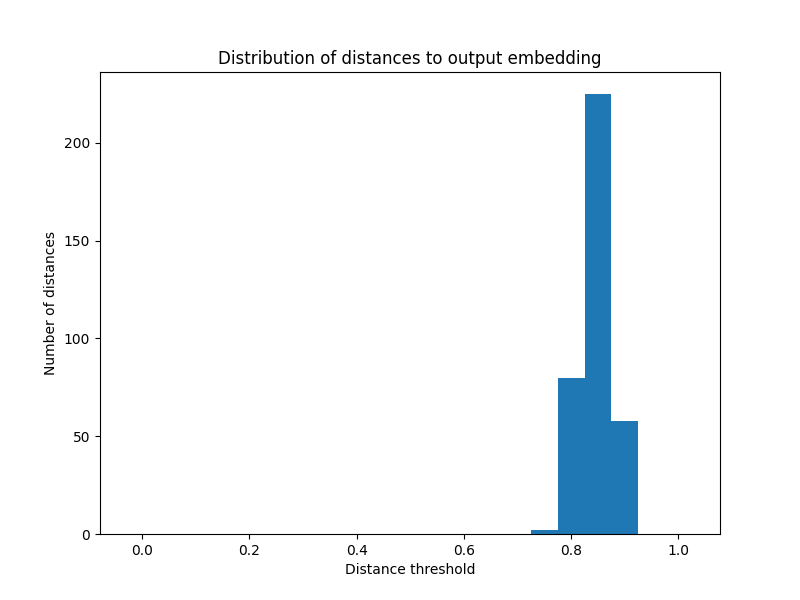
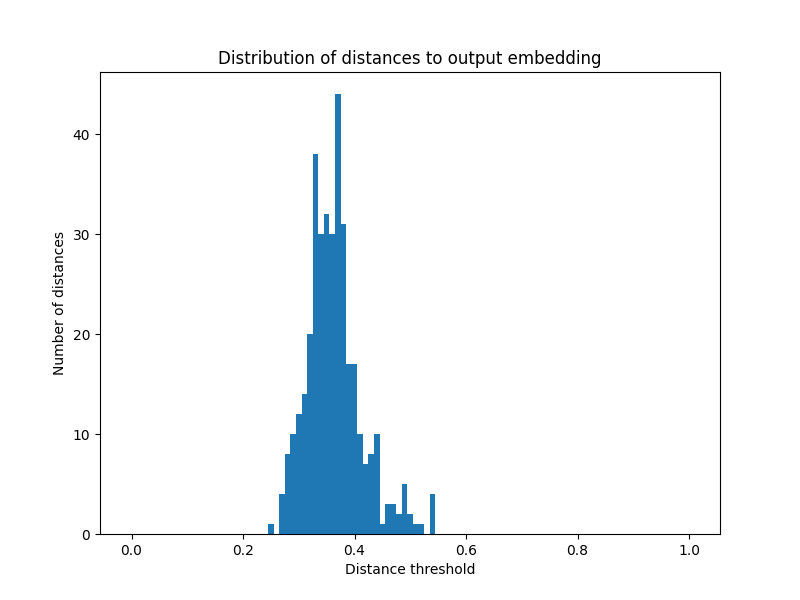
Origin and centroid distance plots

diff --git a/plotting.py b/plotting.py
@@ -184,6 +184,84 @@ def plot_distance_distribution(dists, name, t_step=0.05):
     plt.savefig(f"plots/distance_distribution_{name}.png")
 
 
+def plot_origin_distance(data, labels = "ONeill", embedding = "clamp", method="euclidean", name=None, t_step=0.2):
+
+    if isinstance(labels, str):
+        labels = [labels]
+    embeddings = extract_embeddings(data, labels, embedding)
+
+    if name is None:
+        label_str = "-".join(labels)
+        name = f"{label_str}_{embedding}_{method}"
+
+    embed_len = len(embeddings[0])
+    origin = [0]*embed_len
+
+    dists = compute_dist(origin, embeddings, method=method)[method]
+    dist_max = max(dists)
+
+    t_steps = math.ceil(dist_max/t_step)
+    thresholds = [t_step*i for i in range(t_steps+1)]
+    thresholds[0] = -0.001 # to include the 0 distance
+
+    dist_counts = [sum([1 for d in dists if d > t and d <= t+t_step]) for t in thresholds]
+
+    
+    plt.clf()
+    plt.bar(thresholds, dist_counts, width=t_step)
+    plt.xlabel("Distance threshold")
+    plt.ylabel("Number of distances")
+    plt.title("Distribution of distances to origin")
+    plt.savefig(f"plots/origin_distance_distribution_{name}.png")
+
+
+def plot_centroid_distance(data, labels = "ONeill", embedding = "clamp", method="euclidean", name=None, t_step=0.2):
+
+    if isinstance(labels, str):
+        labels = [labels]
+    embeddings = extract_embeddings(data, labels, embedding)
+
+    if name is None:
+        label_str = "-".join(labels)
+        name = f"{label_str}_{embedding}_{method}"
+
+    embed_len = len(embeddings[0])
+
+
+    centroid = [sum([e[i] for e in embeddings])/len(embeddings) for i in range(embed_len)]
+    
+    dists = compute_dist(centroid, embeddings, method=method)[method]
+    dist_max = max(dists)
+
+    t_steps = math.ceil(dist_max/t_step)
+    thresholds = [t_step*i for i in range(t_steps+1)]
+    thresholds[0] = -0.001 # to include the 0 distance
+
+    dist_counts = [sum([1 for d in dists if d > t and d <= t+t_step]) for t in thresholds]
+
+    
+    plt.clf()
+    plt.bar(thresholds, dist_counts, width=t_step)
+    plt.xlabel("Distance threshold")
+    plt.ylabel("Number of distances")
+    plt.title("Distribution of distances to centroid")
+    plt.savefig(f"plots/centroid_distance_distribution_{name}.png")
+
+def plot_distance_distribution(dists, name, t_step=0.05):
+
+    t_steps = math.ceil(1/t_step)
+    thresholds = [t_step*i for i in range(t_steps+1)]
+    thresholds[0] = -0.001 # to include the 0 distance
+
+    dist_counts = [sum([1 for d in dists if d > t and d <= t+t_step]) for t in thresholds]
+
+    plt.clf()
+    plt.bar(thresholds, dist_counts, width=t_step)
+    plt.xlabel("Distance threshold")
+    plt.ylabel("Number of distances")
+    plt.title("Distribution of distances to output embedding")
+    plt.savefig(f"plots/distance_distribution_{name}.png")
+
 def plot_distance_average(data, source_labels = "ONeill", target_labels = None, embedding = "clamp", method="cosine", name = None, t_step=0.05):
     """
     Generates a 2D scatter plots of the first two dimensions of the embeddings and saves it as a PNG file.

diff --git a/main.py b/main.py
@@ -272,6 +272,9 @@ if __name__ == "__main__":
             data[label]["embed"][embedding] = embedded_data
 
 
+
+
+
     for embedding in embeddings:
         # Embed the data using the specified embedding method
 
@@ -293,15 +296,17 @@ if __name__ == "__main__":
 
 
         e_out = random.choice(data["output"]["embed"][embedding])
-        #out_dists = compute_dist(e_out, data["ONeill"]["embed"][embedding], methods = methods)
-        #out_dists_full = compute_dist(e_out, data["ONeill"]["embed"][embedding] + data["output"]["embed"][embedding], methods = methods)
+
+        out_dists = compute_dist(e_out, data["ONeill"]["embed"][embedding], methods = methods)
+        out_dists_full = compute_dist(e_out, data["ONeill"]["embed"][embedding] + data["output"]["embed"][embedding], methods = methods)
 
 
 
-
-        #for m in out_dists.keys():
-        #    plotting.plot_distance_distribution(out_dists[m], embedding+"_"+m)
-        #    plotting.plot_distance_distribution(out_dists_full[m], embedding+"_full_"+m)
+        for m in out_dists.keys():
+            plotting.plot_origin_distance(data, "ONeill", embedding, method="euclidean", t_step=0.01)
+            plotting.plot_centroid_distance(data, "ONeill", embedding, method="euclidean", t_step=0.01)
+            plotting.plot_distance_distribution(out_dists[m], embedding+"_"+m, t_step=0.01)
+            plotting.plot_distance_distribution(out_dists_full[m], embedding+"_full_"+m, t_step=0.01)
         
         
     

diff --git a/abc_processing.py b/abc_processing.py
@@ -22,12 +22,17 @@ def load_abc(data_path):
     return tunes, idx2token, token2idx
 
 
-tunes, _, _ = load_abc("data/ONeillsJigs_parsed_wot_copy")
+
+target_file = "data/allabcdodec_parsed_wot_0"
+tunes, _, _ = load_abc(target_file)
 
 
-with open("data/ONeillsJigs_labelled", 'w') as f:
+
+with open(target_file + "_labelled", 'w') as f:
     i = 0
     for tune in tunes:
+        tune = tune.replace(' ', '')
+
         i += 1
-        f.write("X: " + str(i) + "\n")
+        f.write("X:" + str(i) + "\n")
         f.write(tune + "\n\n")

diff --git a/timidity_test.py b/timidity_test.py
@@ -1,0 +1,6 @@
+from timidity import Parser, play_notes
+import numpy as np
+
+ps = Parser("folkrnn/data/midi/sessiontune45843.mid")
+
+play_notes(*ps.parse(), np.sin)
